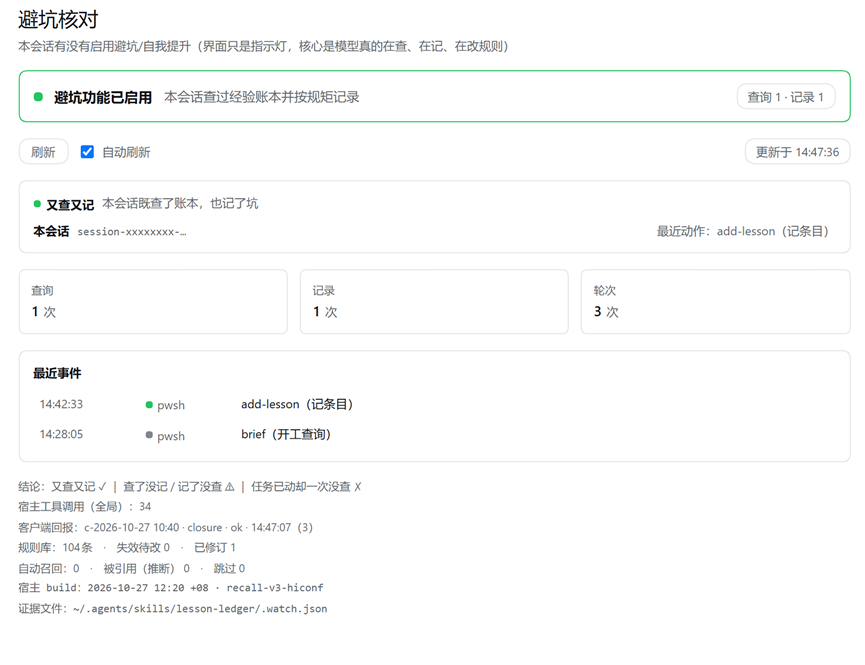
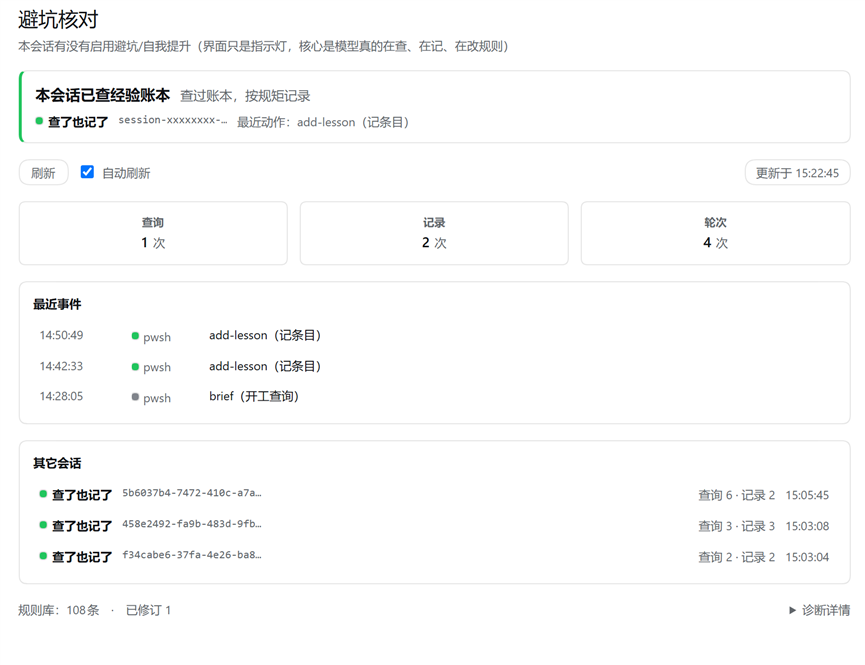
ui: make the panel answer its one question at a glance
Three independent reviews (visual / usability / data-viz) converged on one root
cause: ten same-weight blocks with no hierarchy, the same conclusion rendered
three times, and the rule base buried under seven lines of 11px debug text.

- headline is now a three-state machine (nothing happened yet / tools ran but
  the ledger was never checked / checked), driven by the call counter already in
  the payload, so it no longer claims 'not enabled' for a session that has not
  started, and no longer contradicts the card below it
- the indicator became a status spine: 3px state bar, 15px headline, one
  sub-line with the verdict, the session chip and the last action
- removed the duplicated verdict card and the duplicated inline counters
- footer: seven 11px lines -> one 12px line (rule base health) plus a collapsed
  Diagnostics section
- KPI cards follow the host convention (centred, bold label, layer-2)
- two contrast defects fixed: the loading skeleton used layer-2 (which is #fff
  in light mode, so it was invisible) and the status dots had no ring
- clearer wording in both dictionaries; actionable empty state

Review reports and their screenshots stay local (they quote private ledger
entries and local paths); .gitignore now covers those filenames too.

diff --git a/lib/client.js b/lib/client.js
@@ -25,7 +25,7 @@ window.__ModuleLoader__.load({
 
     const React = require('react');
 
-    const BUILD = 'c-2026-10-27 10:40 · closure';
+    const BUILD = 'c-2026-10-27 15:20 · clarity-v2';
     const NS = 'settings.ledgerWatch';
     const inject = ['slots', 'locale', 'connection'];
     const REMOTE_METHOD_PARAMS = { state: ['sessionId'], evidence: [], report: ['clientBuild', 'note'] };
@@ -51,26 +51,28 @@ window.__ModuleLoader__.load({
       '.lw-row{border-radius:6px;transition:background-color var(--ds-transition-duration,.2s) var(--ds-ease-in-out,ease-in-out)}',
       '.lw-row:hover{background:var(--dsw-alias-interactive-bg-hover)}',
       '.lw-row:focus-visible{outline:var(--dsw-focus-ring-width,2px) solid var(--dsw-focus-ring-color,var(--dsw-alias-brand-primary));outline-offset:1px}',
-      '.lw-skel{background:var(--dsw-alias-bg-layer-2,rgba(0,0,0,.05));border-radius:6px;animation:lw-pulse 1.4s ease-in-out infinite}',
+      '.lw-skel{background:var(--dsw-alias-bg-skeleton,var(--dsw-alias-bg-layer-2,rgba(0,0,0,.05)));border-radius:6px;animation:lw-pulse 1.4s ease-in-out infinite}',
       '@keyframes lw-pulse{0%,100%{opacity:1}50%{opacity:.55}}',
       '@media (prefers-reduced-motion: reduce){.lw-skel{animation:none}}'
     ].join('\n');
 
     const zh = {
       tab: '避坑核对', title: '避坑核对', subtitle: '本会话有没有启用避坑/自我提升（界面只是指示灯，核心是模型真的在查、在记、在改规则）',
-      statusOn: '避坑功能已启用', statusOff: '避坑功能未启用',
-      statusOnHint: '本会话查过经验账本并按规矩记录', statusOffHint: '本会话还没查过经验账本',
+      statusOn: '本会话已查经验账本', statusOff: '跑过工具，但没查经验账本', statusIdle: '本会话还没开始',
+      statusOnHint: '查过账本，按规矩记录', statusOffHint: '任务已经在动，账本一次没查 —— 先跑 brief.ps1',
+      statusIdleHint: '开始给我第一个任务即可；如果我没先查账本，这里会变红',
+      diagnostics: '诊断详情', lastChecked: '最近账本活动',
       ledgerLib: '规则库', ledgerEntries: '条', relapse: '失效待改', revised: '已修订',
       recall: '自动召回', adopted: '被引用（推断）', skipped: '跳过', hostBuild: '宿主 build', writeWarn: '证据文件写入失败 {n} 次 —— 面板数据可能停在旧值',
       needRecord: '本会话有 {n} 次失败的工具调用，却一条坑都没记 —— 收尾请用 add-lesson.ps1 补记',
       refresh: '刷新', autoOn: '自动刷新', autoOff: '已暂停', loading: '正在读取监视状态…',
       failed: '读取失败', stale: '数据已过期', retry: '重试', updatedAt: '更新于',
-      noSession: '还没有捕获到任何账本相关活动', noSessionHint: '开工时跑 brief.ps1 查询，收尾用 add-lesson.ps1 记录',
+      noSession: '本会话还没有账本相关活动', noSessionHint: '开工先跑 brief.ps1 查询经验，收尾用 add-lesson.ps1 记坑（这两条由我执行）',
       session: '本会话', queries: '查询', records: '记录', turns: '轮次', observed: '宿主工具调用（全局）',
       verdict: '结论', lastAction: '最近动作', events: '最近事件', sessions: '其它会话',
       evidence: '证据文件', build: 'build', client: '客户端回报', none: '无', times: '次',
       more: '仅显示', of: '/', copied: '已复制',
-      v_ok: '又查又记', v_queryonly: '查了没记', v_recordnoquery: '记了没查', v_missingquery: '未查询', v_idle: '无活动',
+      v_ok: '查了也记了', v_queryonly: '查了没记', v_recordnoquery: '记了没先查', v_missingquery: '没查账本', v_idle: '还没开始',
       h_ok: '本会话既查了账本，也记了坑', h_queryonly: '查过账本，但还没有记录新踩的坑',
       h_recordnoquery: '记了坑，但没有先查账本', h_missingquery: '任务已经动过工具，却一次没查账本',
       h_idle: '还没有账本相关活动', a_query: '查询', a_record: '记录', a_touch: '其它',
@@ -79,8 +81,10 @@ window.__ModuleLoader__.load({
     };
     const en = {
       tab: 'Pitfall check', title: 'Pitfall check', subtitle: 'Whether this session enabled the self-improvement loop (the UI is only an indicator)',
-      statusOn: 'Self-improvement ON', statusOff: 'Self-improvement OFF',
-      statusOnHint: 'This session consulted the ledger and recorded by the rules', statusOffHint: 'The ledger was never consulted in this session',
+      statusOn: 'Ledger checked in this session', statusOff: 'Tools ran, but the ledger was never checked', statusIdle: 'Nothing happened in this session yet',
+      statusOnHint: 'consulted, and recorded by the rules', statusOffHint: 'the session is working but never looked it up - run brief.ps1 first',
+      statusIdleHint: 'give me a first task; if I skip the ledger, this turns red',
+      diagnostics: 'Diagnostics', lastChecked: 'Last ledger activity',
       ledgerLib: 'Rule base', ledgerEntries: 'entries', relapse: 'needs rework', revised: 'revised',
       recall: 'Auto-recall', adopted: 'adopted', skipped: 'skipped', hostBuild: 'Host build', writeWarn: 'Evidence writes failed {n} times - the panel may be showing stale data',
       needRecord: 'This session had {n} failed tool calls but recorded nothing - run add-lesson.ps1 before finishing',
@@ -90,7 +94,7 @@ window.__ModuleLoader__.load({
       session: 'This session', queries: 'Queries', records: 'Records', turns: 'Turns', observed: 'Host tool calls (global)',
       verdict: 'Verdict', lastAction: 'Last action', events: 'Recent events', sessions: 'Other sessions',
       evidence: 'Evidence file', build: 'build', client: 'Client report', none: 'none', times: '', more: 'showing', of: '/', copied: 'copied',
-      v_ok: 'queried + recorded', v_queryonly: 'queried only', v_recordnoquery: 'recorded only', v_missingquery: 'not queried', v_idle: 'idle',
+      v_ok: 'checked + logged', v_queryonly: 'checked only', v_recordnoquery: 'logged, no check', v_missingquery: 'never checked', v_idle: 'not started',
       h_ok: 'Both looked up and recorded', h_queryonly: 'Looked up, nothing recorded yet',
       h_recordnoquery: 'Recorded without looking up first', h_missingquery: 'Tools ran but the ledger was never consulted',
       h_idle: 'No ledger activity yet', a_query: 'query', a_record: 'record', a_touch: 'other',
@@ -148,11 +152,11 @@ window.__ModuleLoader__.load({
       },
       kpis: { display: 'grid', gridTemplateColumns: 'repeat(auto-fit, minmax(132px, 1fr))', gap: '12px' },
       kpi: {
-        display: 'flex', flexDirection: 'column', gap: '2px', minWidth: 0,
+        display: 'flex', flexDirection: 'column', alignItems: 'center', gap: '2px', minWidth: 0,
         padding: '12px', borderRadius: '8px',
-        border: '1px solid var(--dsw-alias-border-l2)', background: 'var(--dsw-alias-bg-layer-1)'
+        border: '1px solid var(--dsw-alias-border-l2)', background: 'var(--dsw-alias-bg-layer-2)'
       },
-      kpiLabel: { fontSize: '11px', color: 'var(--dsw-alias-label-secondary)' },
+      kpiLabel: { fontSize: '11px', fontWeight: 600, color: 'var(--dsw-alias-label-secondary)' },
       kpiValue: { fontSize: '14px', fontWeight: 600, lineHeight: '20px', fontVariantNumeric: 'tabular-nums' },
       kpiUnit: { fontSize: '12px', fontWeight: 400, color: 'var(--dsw-alias-label-secondary)', marginLeft: '3px' },
       card: {
@@ -167,7 +171,7 @@ window.__ModuleLoader__.load({
       mono: { fontFamily: CODE, fontSize: '11px', color: 'var(--dsw-alias-label-secondary)', overflow: 'hidden', textOverflow: 'ellipsis', whiteSpace: 'nowrap' },
       rows: { display: 'flex', flexDirection: 'column', gap: '1px' },
       evRow: {
-        display: 'grid', gridTemplateColumns: '96px 86px minmax(0, 1fr)', gap: '10px', alignItems: 'baseline',
+        display: 'grid', gridTemplateColumns: '82px 68px minmax(0, 1fr)', gap: '10px', alignItems: 'baseline',
         padding: '5px 6px', fontSize: '12px'
       },
       sessRow: {
@@ -191,8 +195,17 @@ window.__ModuleLoader__.load({
         background: 'var(--dsw-alias-bg-layer-2)', border: '1px solid var(--dsw-alias-border-l1)',
         borderRadius: '6px', padding: '4px 8px', overflowWrap: 'anywhere', whiteSpace: 'pre-wrap'
       },
-      foot: { display: 'flex', flexDirection: 'column', gap: '4px', fontSize: '11px', color: 'var(--dsw-alias-label-secondary)', marginTop: 'auto' },
-      dot: { width: '7px', height: '7px', borderRadius: '999px', flex: 'none', display: 'inline-block' }
+      spine: {
+        display: 'flex', flexDirection: 'column', gap: '6px',
+        padding: '12px 14px', borderRadius: '10px',
+        border: '1px solid var(--dsw-alias-border-l2)', borderLeft: '3px solid var(--dsw-alias-border-l3)',
+        background: 'var(--dsw-alias-bg-layer-1)'
+      },
+      spineMain: { display: 'flex', alignItems: 'baseline', gap: '10px', flexWrap: 'wrap' },
+      spineSub: { display: 'flex', alignItems: 'center', gap: '10px', flexWrap: 'wrap', fontSize: '12px' },
+      details: { fontSize: '12px', color: 'var(--dsw-alias-label-secondary)' },
+      foot: { display: 'flex', flexDirection: 'row', alignItems: 'center', gap: '14px', flexWrap: 'wrap', fontSize: '12px', color: 'var(--dsw-alias-label-secondary)', marginTop: 'auto' },
+      dot: { width: '7px', height: '7px', borderRadius: '999px', flex: 'none', display: 'inline-block', boxShadow: '0 0 0 1px var(--dsw-alias-border-l3)' }
     };
 
     /** 结论 → 颜色（只用于圆点）。 */
@@ -417,18 +430,7 @@ window.__ModuleLoader__.load({
         state.at ? React.createElement('span', { style: S.pill }, t('updatedAt') + ' ' + clockOf(new Date(state.at).toISOString())) : null
       );
 
-      const statusRow = React.createElement('div', { style: S.card, role: 'status' },
-        React.createElement('div', { style: S.status },
-          React.createElement(Verdict, { t: t, verdict: curVerdict }),
-          React.createElement('span', { style: S.dim }, verdictHint(t, curVerdict))
-        ),
-        React.createElement('div', { style: S.status },
-          React.createElement('span', { style: S.sectionLabel }, t('session')),
-          React.createElement('span', { style: S.mono, title: cur ? cur.id : '' }, cur ? shortId(cur.id) : t('none')),
-          React.createElement('span', { style: S.spacer }),
-          React.createElement('span', { style: S.dim }, t('lastAction') + '：' + (cur && cur.lastLabel ? cur.lastLabel : t('none')))
-        )
-      );
+      // 状态行卡已删除：结论改由状态脊承担，避免同一结论在一屏里渲染两遍（UI + UX 评审一致）
 
       const kpis = React.createElement('div', { style: S.kpis },
         React.createElement(Kpi, { label: t('queries'), value: cur ? cur.queries : 0, unit: t('times') }),
@@ -480,35 +482,51 @@ window.__ModuleLoader__.load({
           React.createElement('span', { style: S.chip }, 'brief.ps1'), ' ', React.createElement('span', { style: S.chip }, 'add-lesson.ps1'))
       ) : null;
 
+      // 页脚：常态只留一行（规则库健康度 = 唯一带行动含义的次要信息），诊断信息折叠起来
       const foot = React.createElement('div', { style: S.foot },
-        React.createElement('span', null, t('legend')),
-        React.createElement('span', null, t('observed') + '：' + (data.observedToolCalls || 0) +
-          (data.writeFailures ? '　·　写盘失败 ' + data.writeFailures + ' 次' : '')),
-        data.client ? React.createElement('span', null, t('client') + '：' + data.client.build + ' · ' + data.client.note + ' · ' + clockOf(data.client.at) + '（' + data.client.reports + '）') : null,
-        data.ledger ? React.createElement('span', null, t('ledgerLib') + '：' + data.ledger.entries + t('ledgerEntries') + '　·　' + t('relapse') + ' ' + data.ledger.relapse + '　·　' + t('revised') + ' ' + data.ledger.revised + (data.ledger.error ? '（' + data.ledger.error + '）' : '')) : null,
-        React.createElement('span', null, t('recall') + '：' + (data.recalls || 0) + '　·　' + t('adopted') + ' ' + (data.recallCitedIds || 0) + '　·　' + t('skipped') + ' ' + (data.recallSkipped || 0) + (data.lastRecallIds ? '　·　' + data.lastRecallIds : '')),
-        React.createElement('span', { style: S.mono }, t('hostBuild') + '：' + (data.build || '-')),
-        React.createElement('span', { style: { ...S.mono, fontSize: '11px' } }, t('evidence') + '：' + (data.evidencePath || '-'))
+        data.ledger ? React.createElement('span', null, t('ledgerLib') + '：' + data.ledger.entries + t('ledgerEntries') +
+          (data.ledger.relapse > 0 ? '　·　' + t('relapse') + ' ' + data.ledger.relapse : '') +
+          (data.ledger.revised > 0 ? '　·　' + t('revised') + ' ' + data.ledger.revised : '') +
+          (data.ledger.error ? '（' + data.ledger.error + '）' : '')) : null,
+        (data.recalls || 0) > 0
+          ? React.createElement('span', null, t('recall') + '：' + data.recalls + '　·　' + t('adopted') + ' ' + (data.recallCitedIds || 0))
+          : null,
+        React.createElement('span', { style: S.spacer }),
+        React.createElement('details', { style: S.details },
+          React.createElement('summary', { style: { cursor: 'pointer' } }, t('diagnostics')),
+          React.createElement('div', { style: { display: 'flex', flexDirection: 'column', gap: '4px', paddingTop: '4px' } },
+            React.createElement('span', null, t('client') + '：' + (data.client ? data.client.build + ' · ' + data.client.note + ' · ' + clockOf(data.client.at) : t('none'))),
+            React.createElement('span', { style: S.mono }, t('hostBuild') + '：' + (data.build || '-')),
+            React.createElement('span', null, t('observed') + '：' + (data.observedToolCalls || 0)),
+            React.createElement('span', { style: { ...S.mono, whiteSpace: 'normal', overflowWrap: 'anywhere' } }, t('evidence') + '：' + (data.evidencePath || '-'))
+          )
+        )
       );
 
-      // 用户口径的指示灯：本会话有没有启用避坑/自我提升功能
-      // 兜底：宿主若还没重启（没有 enabled 字段），用 queries > 0 推出来，避免误报红色
-      const enabled = cur !== null && (cur.enabled === true || cur.queries > 0);
-      // 只有「有活动但一次没查」才报红；完全没活动或早已陈旧 → 中性灰（LW-10：无活动也报红）
-      const alarming = !enabled && cur !== null && curVerdict === 'missing-query';
-      const indicatorColor = enabled
+      // 首屏状态：三态（UX 评审 —— 两态文案要覆盖四种语义，会让 3 种状态说错话、1 种与下方卡片同屏矛盾）
+      //   no-activity : calls === 0        → 本会话还没开始（中性灰）
+      //   not-checked : calls > 0, q === 0 → 跑过工具没查账本（红）
+      //   checked     : queries > 0        → 已查账本（绿）
+      const calls = cur === null ? 0 : (cur.calls || 0);
+      const phase = cur === null || calls === 0 ? 'no-activity' : (cur.queries > 0 ? 'checked' : 'not-checked');
+      const spineColor = phase === 'checked'
         ? 'var(--dsw-alias-state-success-primary)'
-        : alarming ? 'var(--dsw-alias-state-error-primary)' : 'var(--dsw-alias-label-tertiary, var(--dsw-alias-label-secondary))';
+        : phase === 'not-checked' ? 'var(--dsw-alias-state-error-primary)' : 'var(--dsw-alias-border-l3)';
+      const headText = phase === 'checked' ? t('statusOn') : phase === 'not-checked' ? t('statusOff') : t('statusIdle');
+      const headHint = phase === 'checked' ? t('statusOnHint') : phase === 'not-checked' ? t('statusOffHint') : t('statusIdleHint');
       const indicator = React.createElement('div', {
-        style: { ...S.card, flexDirection: 'row', alignItems: 'center', gap: '12px', flexWrap: 'wrap', borderColor: indicatorColor },
+        style: { ...S.spine, borderLeftColor: spineColor },
         role: 'status', 'aria-live': 'polite'
       },
-        React.createElement('span', { style: { ...S.dot, width: '9px', height: '9px', background: indicatorColor }, 'aria-hidden': 'true' }),
-        // 文案永远回答「有没有启用」（这是指示灯的本职）；颜色才区分「告警」与「中性」
-        React.createElement('span', { style: { fontWeight: 600, fontSize: '14px' } }, enabled ? t('statusOn') : t('statusOff')),
-        React.createElement('span', { style: S.dim }, enabled ? t('statusOnHint') : alarming ? t('statusOffHint') : t('h_idle')),
-        React.createElement('span', { style: S.spacer }),
-        React.createElement('span', { style: S.pill }, t('queries') + ' ' + (cur ? cur.queries : 0) + ' · ' + t('records') + ' ' + (cur ? cur.records : 0))
+        React.createElement('div', { style: S.spineMain },
+          React.createElement('span', { style: { fontWeight: 600, fontSize: '15px' } }, headText),
+          React.createElement('span', { style: S.dim }, headHint)
+        ),
+        React.createElement('div', { style: S.spineSub },
+          React.createElement(Verdict, { t: t, verdict: curVerdict }),
+          cur === null ? null : React.createElement('span', { style: { ...S.mono, maxWidth: '220px' }, title: cur.id }, shortId(cur.id)),
+          React.createElement('span', { style: S.dim }, t('lastAction') + '：' + (cur && cur.lastLabel ? cur.lastLabel : t('none')))
+        )
       );
       // 推动：踩了坑却零记录 —— 收尾必须补记
       const writeWarn = (data.writeFailures || 0) > 0
@@ -523,7 +541,7 @@ window.__ModuleLoader__.load({
         : null;
 
       return React.createElement('div', { style: { ...S.page, ...(state.status === 'stale' ? { opacity: 0.7 } : {}) }, role: 'tabpanel' },
-        header, indicator, writeWarn, bar, statusRow, needRecord, cur === null ? emptyCard : kpis, eventsCard, othersCard, foot);
+        header, indicator, writeWarn, bar, needRecord, cur === null ? emptyCard : kpis, eventsCard, othersCard, foot);
     }
 
     /** 注册界面 + 回报宿主。 */
